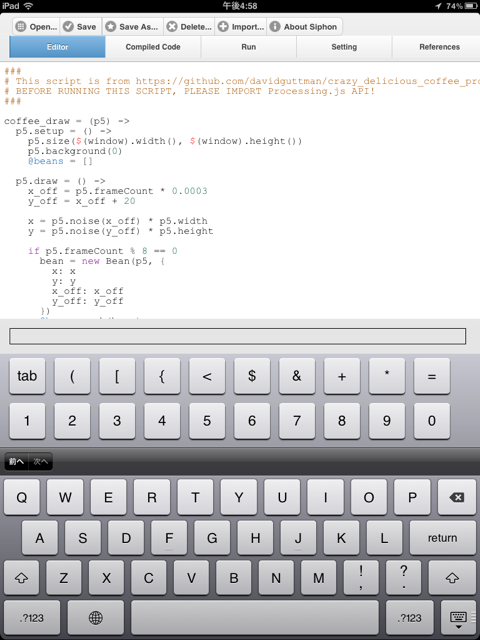
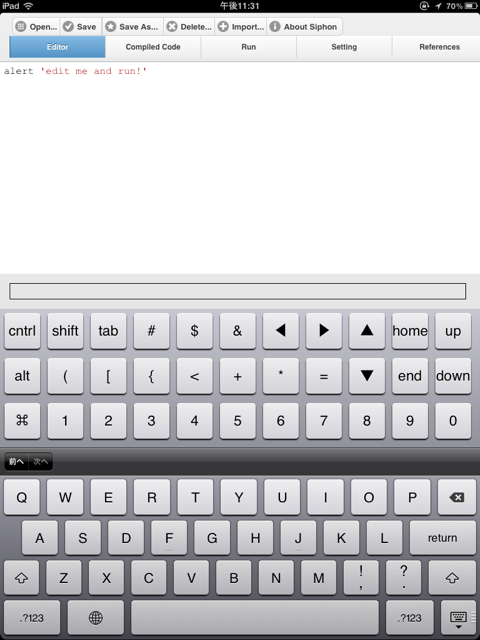
updated index.html and screenshot.

diff --git a/public/siphon/index.html b/public/siphon/index.html
@@ -74,6 +74,8 @@ Enjoy <em>Siphon</em> by clicking <b><a href="siphon.html">here</a></b>!
 <li>Code completion</li>
 </ul>
 <h3>Change log</h3>
+2011/12/10 - version 0.4.0: Onscreen keyboard enhancement.
+<br>
 2011/12/07 - version 0.3.6: improved click sound performance.
 <br>
 2011/12/05 - version 0.3.5: enabling syntax highlight on iPad again, syntax highlight viewer for compiled JavaScript, and Processing.js + CoffeeScript example by D. Guttman.
